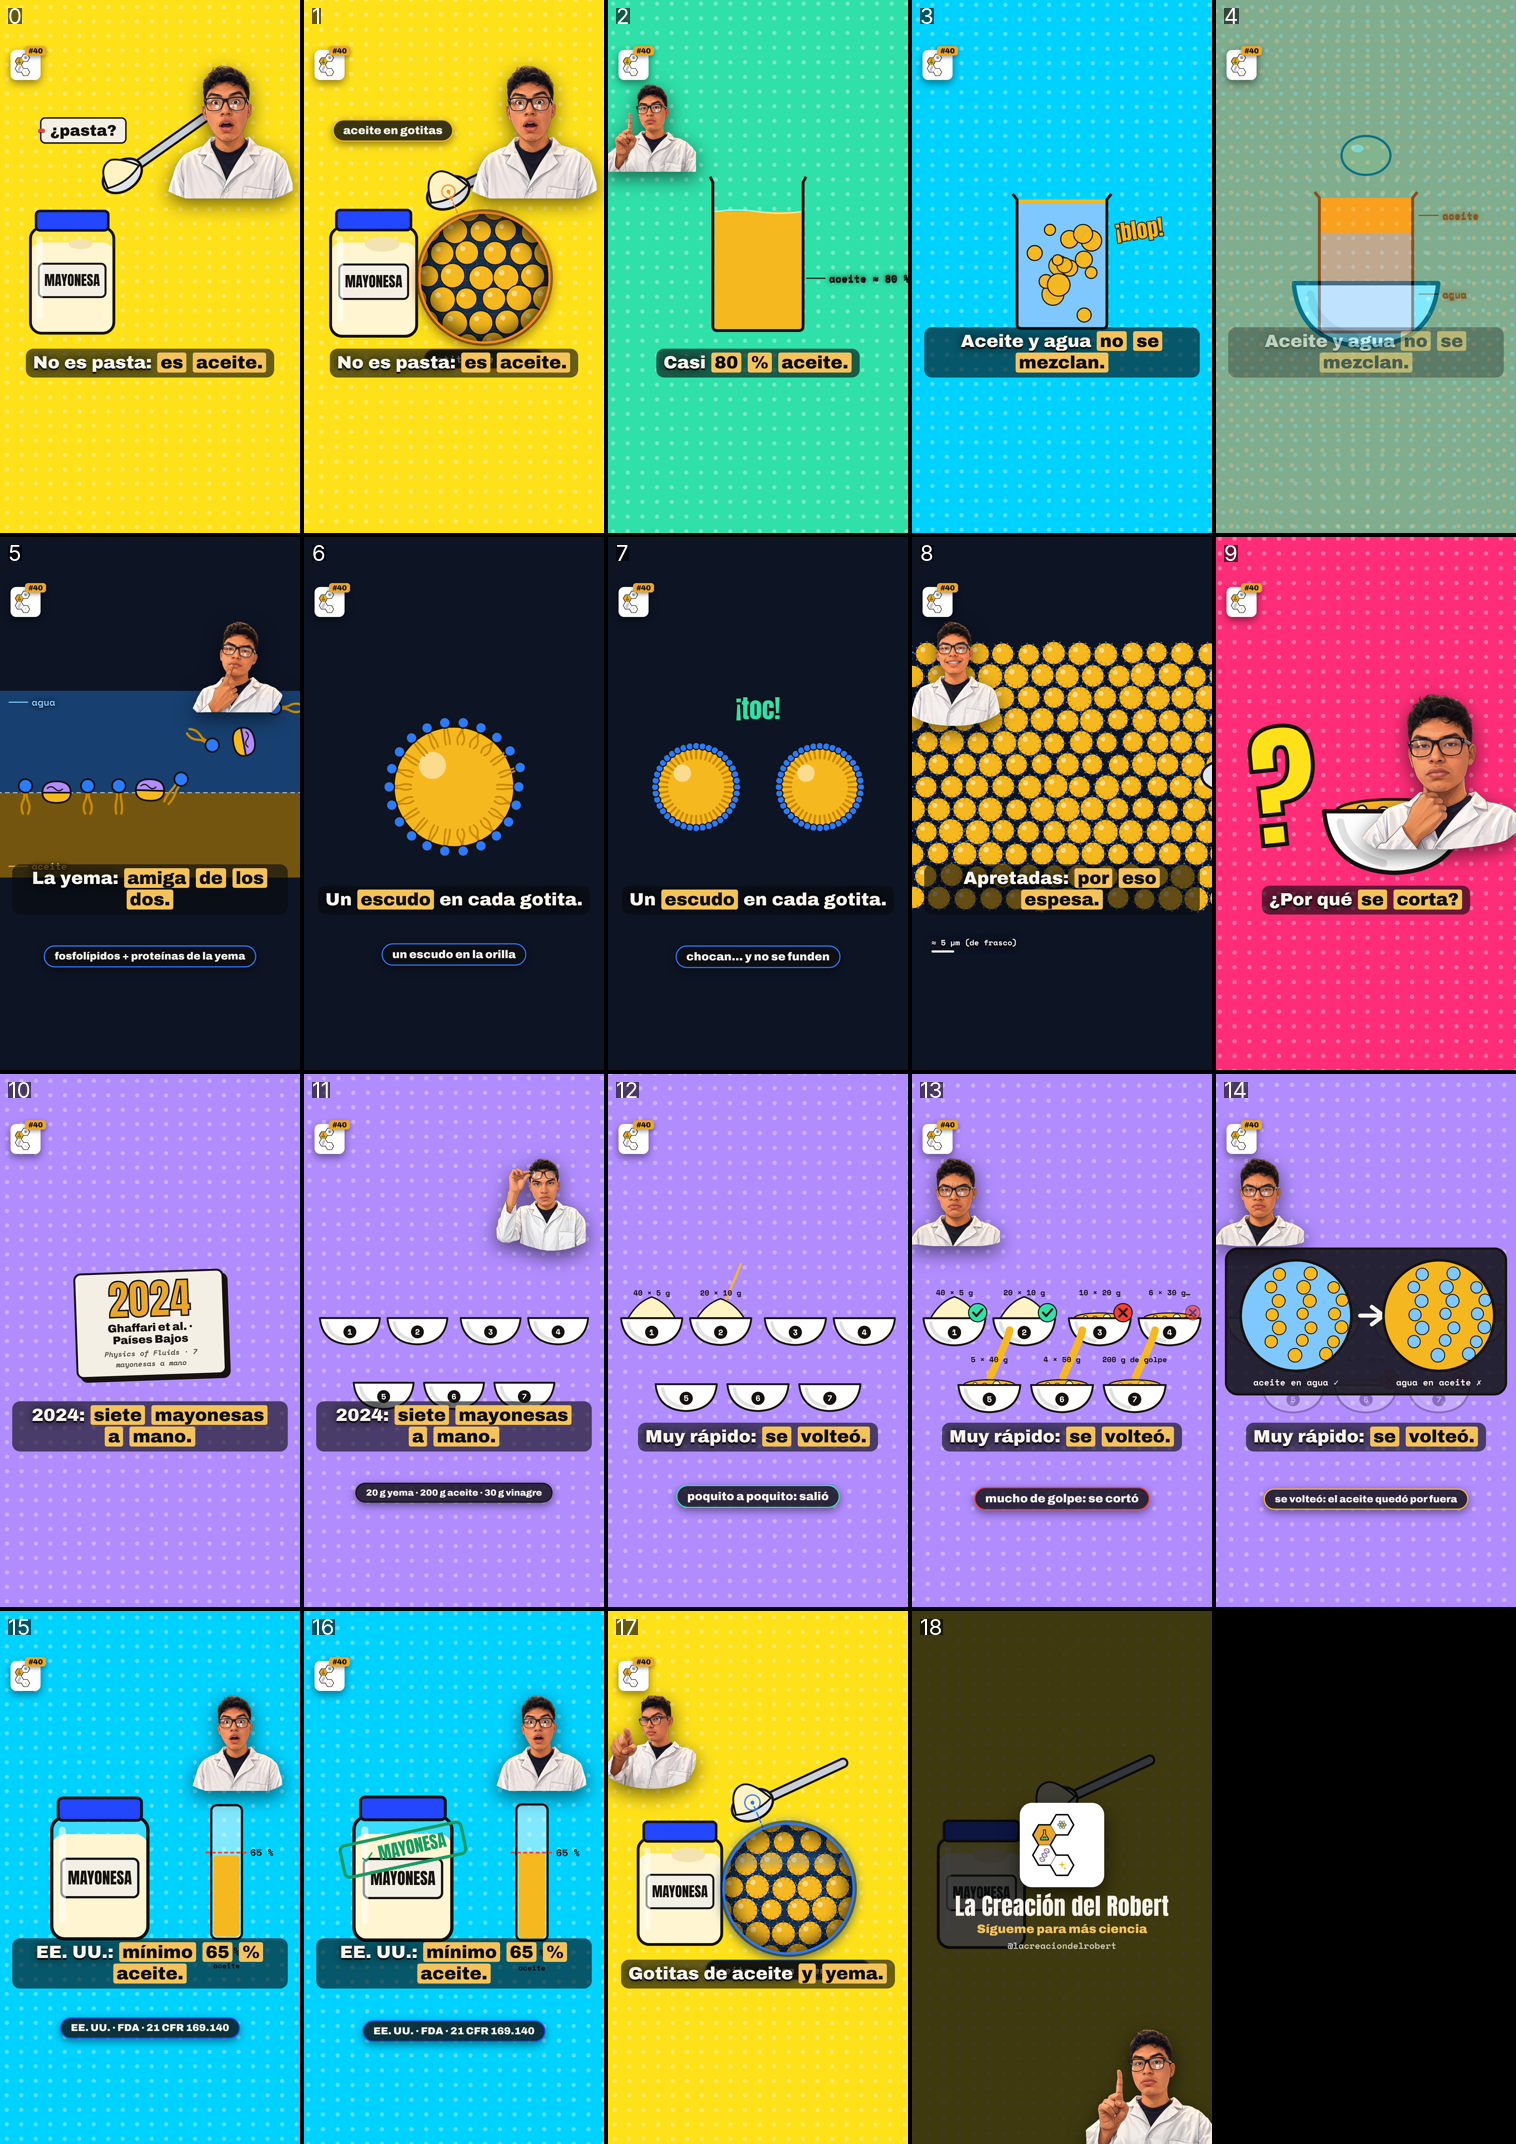
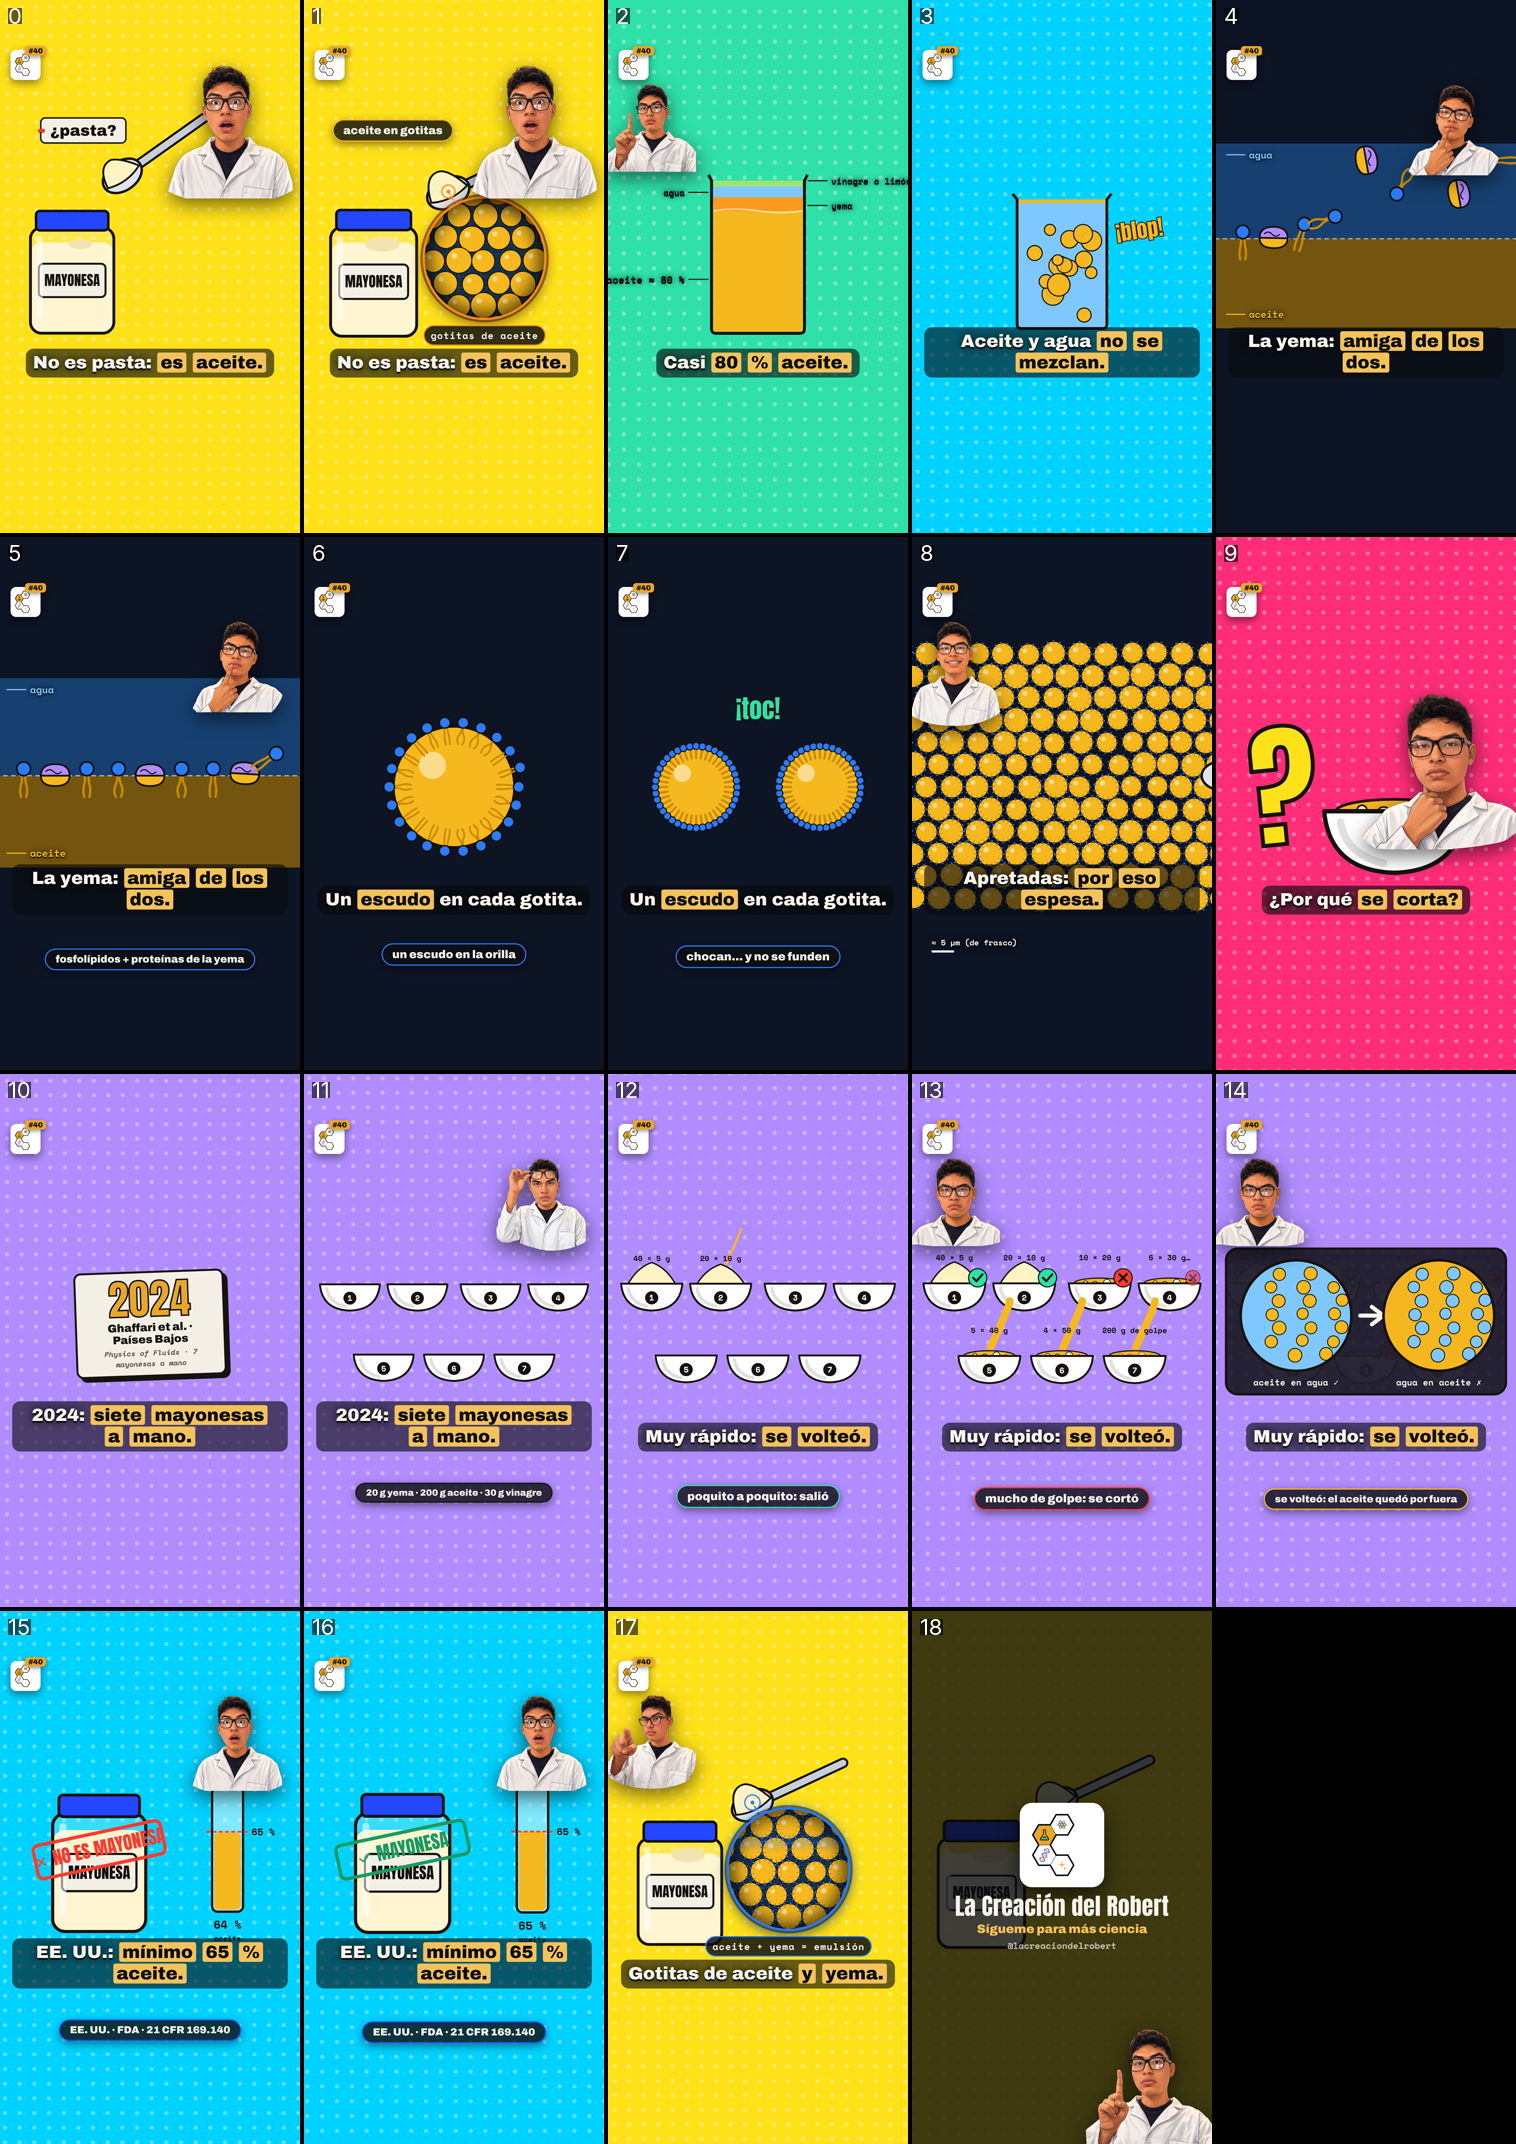
Químico: avance en progreso [sin render]
Claude-Session: https://claude.ai/code/session_0157fpgzuJM3ymsKtSoqvmnt

diff --git a/borradores/qui-40-mayonesa/mayonesa.jsx b/borradores/qui-40-mayonesa/mayonesa.jsx
@@ -96,7 +96,7 @@ function Mayonesa() {
   const vuelve = kprog(T, choque + 0.9, choque + 1.4, kEase.sale);
   const campo = campoGotas(7, -40, 420, 1160, 860, 45);
   const zEp = klerp(1.9, 1, kprog(T, K.Ep, K.Ep + 1.6, kEase.suave));
-  const tazones = [[170, 920], [410, 920], [670, 920], [910, 920], [290, 1150], [540, 1150], [790, 1150]];
+  const tazones = [[170, 800], [410, 800], [670, 800], [910, 800], [290, 1050], [540, 1050], [790, 1050]];
   const porciones = ['40 × 5 g', '20 × 10 g', '10 × 20 g', '6 × 30 g…', '5 × 40 g', '4 × 50 g', '200 g de golpe'];
   const diag = kprog(T, K.Re + 4.3, K.Re + 4.8);
   const voltea = kprog(T, K.Re + 5.0, K.Re + 5.8, kEase.suave);
@@ -119,7 +119,7 @@ function Mayonesa() {
           <Cuchara x={cx} y={cy} rot={klerp(-60, -25, sube)} s={1.1} carga={sube} />
         </SvgCapa>
       </Escena>
-      <Lupa T={T} at={K.G + 1.9} until={K.Q - 0.3} x={650} y={1000} r={230} fx={520} fy={690} tinte={KC.orange} interior={InteriorMayo({ forro: 0 })} etiqueta="gotitas de aceite" />
+      <Lupa T={T} at={K.G + 1.9} until={K.Q - 0.3} x={650} y={930} r={215} fx={520} fy={690} tinte={KC.orange} interior={InteriorMayo({ forro: 0 })} etiqueta="gotitas de aceite" />
 
       {/* 1 · qué tiene */}
       <Escena T={T} a={K.Q} b={K.Pb}>
@@ -137,10 +137,10 @@ function Mayonesa() {
               <Chorro T={T} x0={700} y0={540} x1={560} y1={bot - oil} color={ACEITE} o={1 - kprog(T, K.Q + 1.9, K.Q + 2.1)} ancho={22} />
             </g>; })()}
         </SvgCapa>
-        <Etq T={T} at={K.Q + 1.0} until={K.Pb - 0.3} x={710} y={1000} texto="aceite ≈ 80 %" color={KC.ink} tam={36} />
-        <Etq T={T} at={K.Q + 2.7} until={K.Pb - 0.3} x={370} y={700} lado="izq" texto="yema" color={KC.ink} tam={34} />
-        <Etq T={T} at={K.Q + 3.3} until={K.Pb - 0.3} x={710} y={660} texto="agua" color={KC.ink} tam={34} />
-        <Etq T={T} at={K.Q + 3.9} until={K.Pb - 0.3} x={370} y={620} lado="izq" texto="vinagre o limón" color={KC.ink} tam={34} />
+        <Etq T={T} at={K.Q + 1.0} until={K.Pb - 0.3} x={370} y={1000} lado="izq" texto="aceite ≈ 80 %" color={KC.ink} tam={34} />
+        <Etq T={T} at={K.Q + 2.7} until={K.Pb - 0.3} x={710} y={745} texto="yema" color={KC.ink} tam={30} />
+        <Etq T={T} at={K.Q + 3.3} until={K.Pb - 0.3} x={370} y={700} lado="izq" texto="agua" color={KC.ink} tam={30} />
+        <Etq T={T} at={K.Q + 3.9} until={K.Pb - 0.3} x={710} y={660} texto="vinagre o limón" color={KC.ink} tam={30} />
       </Escena>
 
       {/* 2 · aceite y agua no se mezclan */}
@@ -175,15 +175,15 @@ function Mayonesa() {
       <Escena T={T} a={yA} b={K.Ec}>
         <div style={{ position:'absolute', inset:0, background:KC.noche }}></div>
         <SvgCapa>
-          <rect x={0} y={560} width={KW} height={360} fill="#1b4f8a" opacity={0.75} />
-          <rect x={0} y={920} width={KW} height={300} fill={ACEITE_OSC} opacity={0.55} />
-          <line x1={0} y1={920} x2={KW} y2={920} stroke="#fff" strokeWidth={4} strokeDasharray="16 12" opacity={0.6} />
+          <rect x={0} y={520} width={KW} height={340} fill="#1b4f8a" opacity={0.75} />
+          <rect x={0} y={860} width={KW} height={320} fill={ACEITE_OSC} opacity={0.55} />
+          <line x1={0} y1={860} x2={KW} y2={860} stroke="#fff" strokeWidth={4} strokeDasharray="16 12" opacity={0.6} />
           {Array.from({ length: 9 }, (_, i) => { const p = pYm(i), x = 100 + i * 110, prot = i % 3 === 1;
-            const y0 = 620 + (i % 2) * 120, y = klerp(y0, prot ? 920 : 896, p);
+            const y0 = 580 + (i % 2) * 120, y = klerp(y0, prot ? 860 : 836, p);
             return prot ? <Proteina key={i} x={x} y={y} s={1} ang={klerp(80, 0, p)} /> : <Fosfo key={i} x={x} y={y} T={T} ang={klerp(200 + i * 20, 90, p)} />; })}
         </SvgCapa>
-        <Etq T={T} at={yA + 0.3} until={K.Ec - 0.3} x={40} y={600} texto="agua" color={AGUA} tam={34} />
-        <Etq T={T} at={yA + 0.3} until={K.Ec - 0.3} x={40} y={1180} texto="aceite" color={ACEITE} tam={34} />
+        <Etq T={T} at={yA + 0.3} until={K.Ec - 0.3} x={40} y={560} texto="agua" color={AGUA} tam={34} />
+        <Etq T={T} at={yA + 0.3} until={K.Ec - 0.3} x={40} y={1130} texto="aceite" color={ACEITE} tam={34} />
         <Chip T={T} at={yA + 1.4} until={K.Ec - 0.2} texto="fosfolípidos + proteínas de la yema" y={1500} tam={36} borde={CABEZA} />
       </Escena>
 
@@ -265,13 +265,13 @@ function Mayonesa() {
       <Escena T={T} a={K.Le} b={K.Ci} zoom={0.03}>
         <FondoLunares color={KC.cyan} />
         <SvgCapa>
-          <Frasco x={360} y={1180} s={1.15} />
-          <rect x={760} y={700} width={110} height={480} rx={20} fill="rgba(255,255,255,.5)" stroke={KC.ink} strokeWidth={8} />
-          <rect x={768} y={1172 - 464 * nivelLey / 100} width={94} height={464 * nivelLey / 100} rx={14} fill={ACEITE} />
-          <line x1={740} x2={890} y1={1172 - 464 * 0.65} y2={1172 - 464 * 0.65} stroke={KC.red} strokeWidth={6} strokeDasharray="14 8" />
-          <text x={900} y={1172 - 464 * 0.65 + 12} style={{ font:`700 34px ${KF.mono}` }} fill={KC.ink}>65 %</text>
-          <text x={815} y={1240} textAnchor="middle" style={{ font:`700 40px ${KF.mono}` }} fill={KC.ink}>{Math.round(nivelLey)} %</text>
-          <text x={815} y={1286} textAnchor="middle" style={{ font:`700 26px ${KF.mono}` }} fill={KC.ink}>aceite</text>
+          <Frasco x={360} y={1150} s={1.1} />
+          <rect x={760} y={640} width={110} height={440} rx={20} fill="rgba(255,255,255,.5)" stroke={KC.ink} strokeWidth={8} />
+          <rect x={768} y={1072 - 424 * nivelLey / 100} width={94} height={424 * nivelLey / 100} rx={14} fill={ACEITE} />
+          <line x1={740} x2={890} y1={1072 - 424 * 0.65} y2={1072 - 424 * 0.65} stroke={KC.red} strokeWidth={6} strokeDasharray="14 8" />
+          <text x={900} y={1072 - 424 * 0.65 + 12} style={{ font:`700 34px ${KF.mono}` }} fill={KC.ink}>65 %</text>
+          <text x={815} y={1140} textAnchor="middle" style={{ font:`700 40px ${KF.mono}` }} fill={KC.ink}>{Math.round(nivelLey)} %</text>
+          <text x={815} y={1184} textAnchor="middle" style={{ font:`700 26px ${KF.mono}` }} fill={KC.ink}>aceite</text>
           {(() => { const o = okLey ? kprog(T, K.Le + 3.4, K.Le + 3.7, kEase.rebote) : kprog(T, K.Le + 2.3, K.Le + 2.6, kEase.rebote);
             return o > 0 ? <g transform={`translate(360 860) rotate(-12) scale(${klerp(1.6, 1, o)})`} opacity={Math.min(1, o)}>
               <rect x={-230} y={-60} width={460} height={120} rx={20} fill="none" stroke={okLey ? '#1a9b62' : KC.red} strokeWidth={12} />
@@ -288,7 +288,7 @@ function Mayonesa() {
           <Cuchara x={520} y={700} rot={-25} s={1.1} carga={1} />
         </SvgCapa>
       </Escena>
-      <Lupa T={T} at={K.Ci + 0.6} until={K.Ou + 0.2} x={650} y={1000} r={230} fx={520} fy={690} tinte={CABEZA} interior={InteriorMayo({ forro: 1 })} etiqueta="aceite + yema = emulsión" />
+      <Lupa T={T} at={K.Ci + 0.6} until={K.Ou + 0.2} x={650} y={930} r={215} fx={520} fy={690} tinte={CABEZA} interior={InteriorMayo({ forro: 1 })} etiqueta="aceite + yema = emulsión" />
 
       {/* textos */}
       <MitoTachado T={T} at={K.G + 0.3} tacharEn={K.G + 1.5} until={K.G + 2.6} texto="¿pasta?" x={300} y={470} tam={54} />
